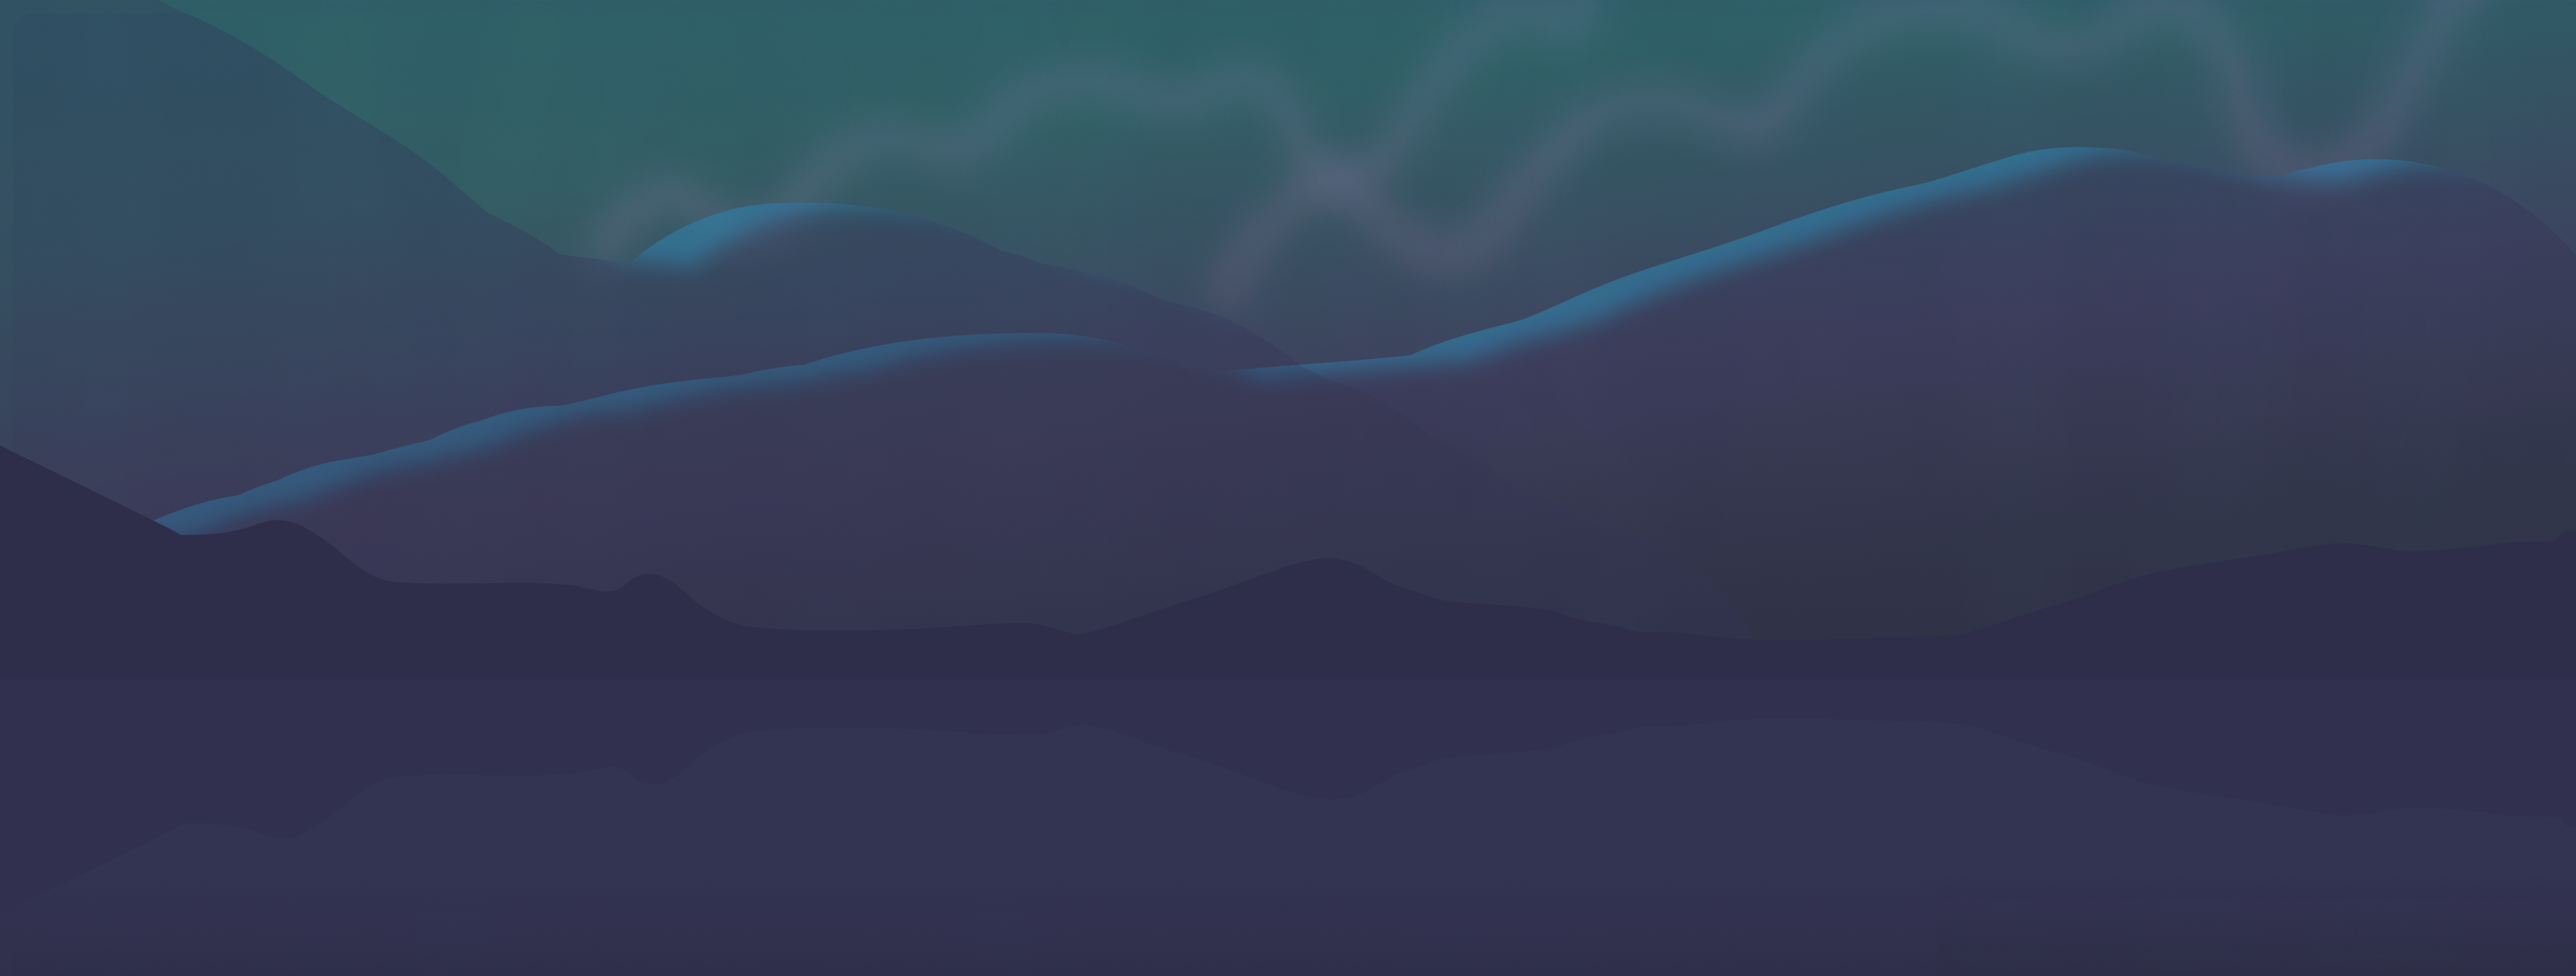
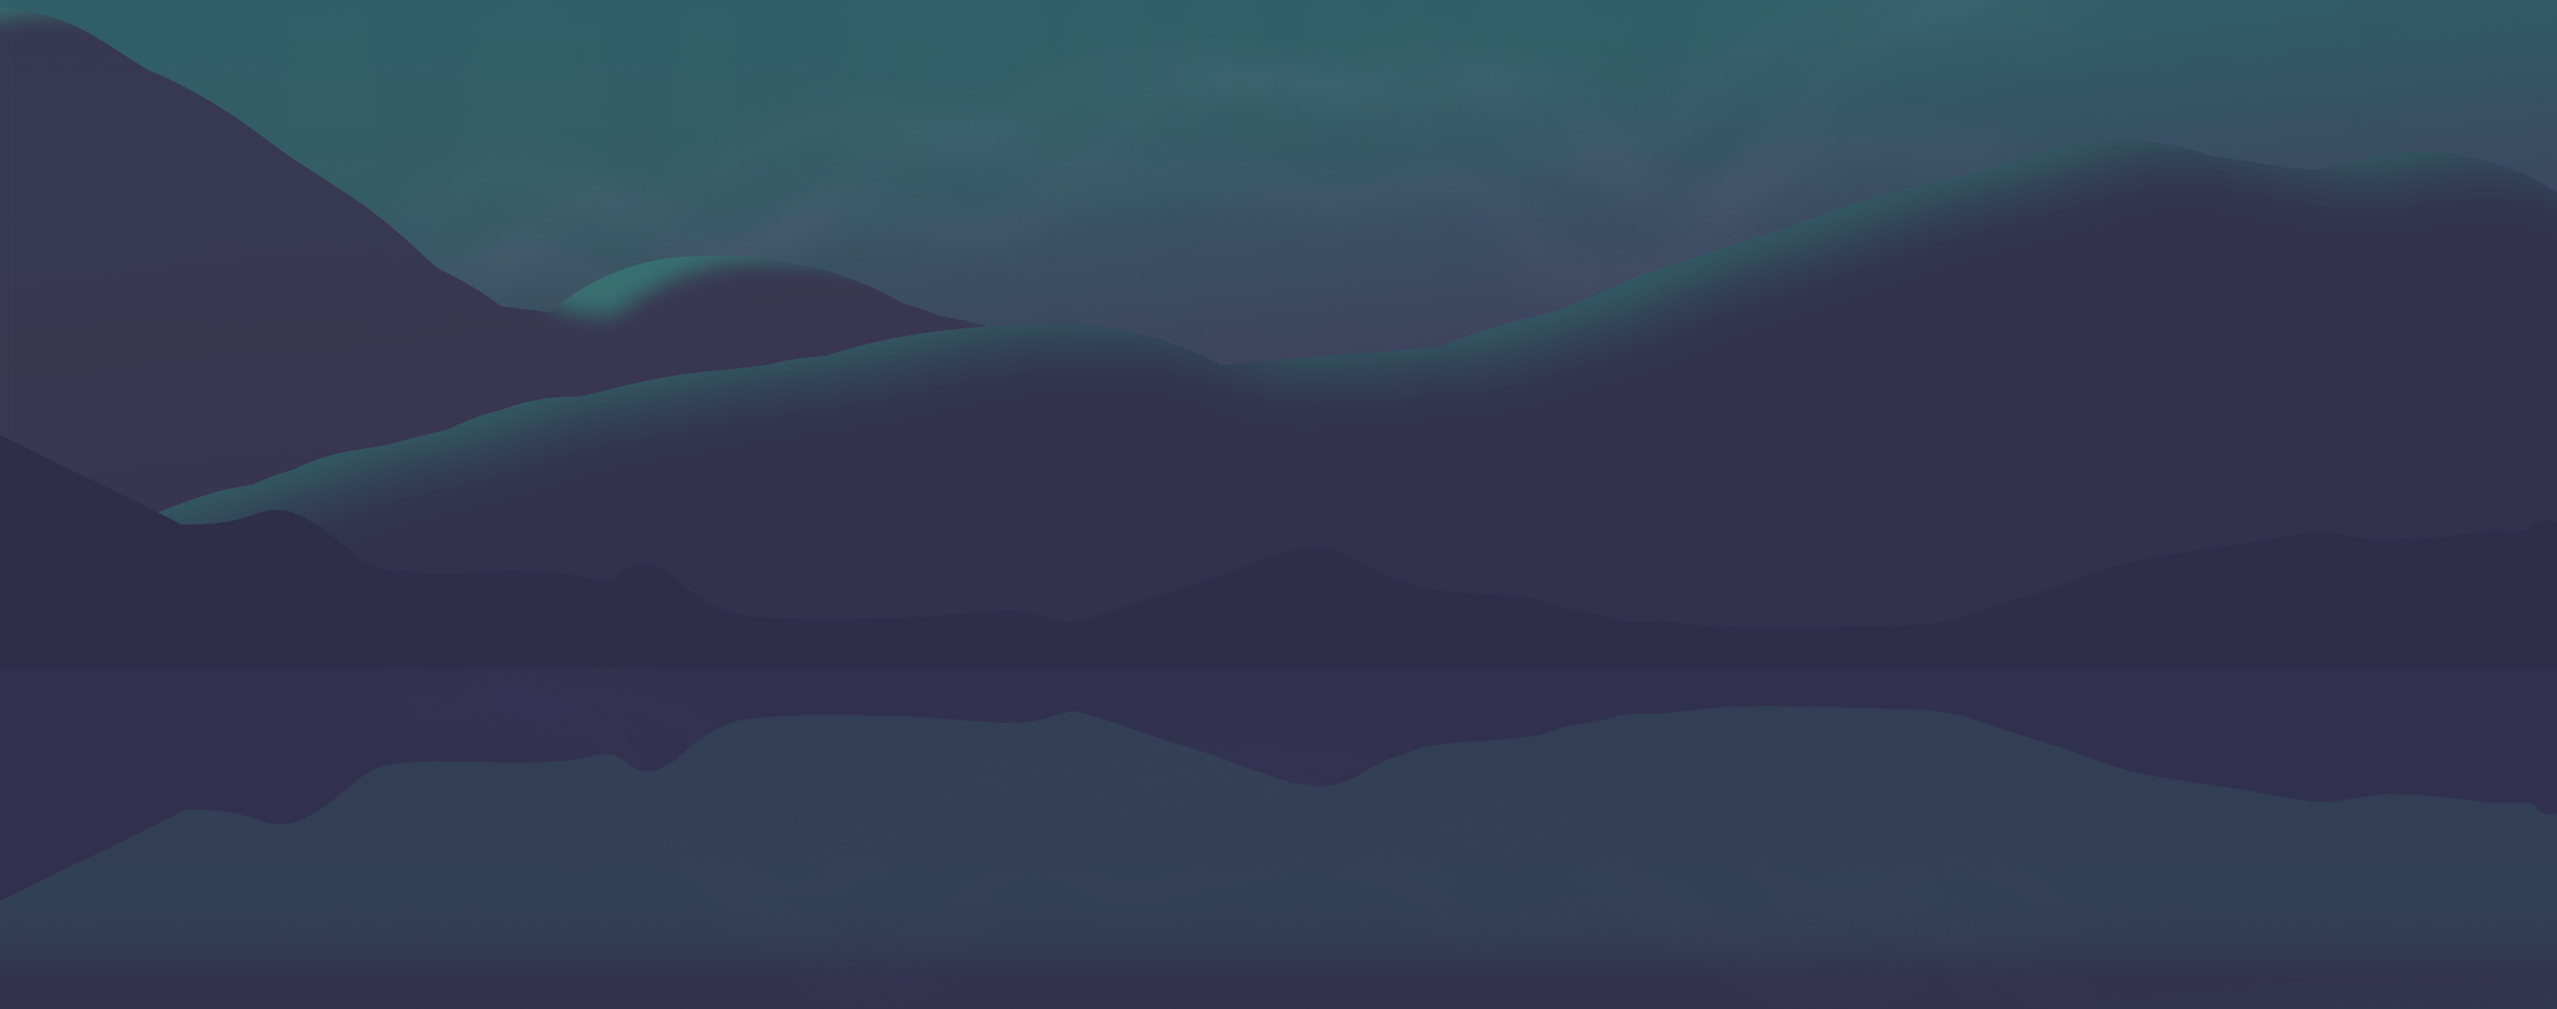
pic less terble

diff --git a/design_code_interact/cv_main.css b/design_code_interact/cv_main.css
@@ -37,6 +37,18 @@ body {
   background-size: 369.20%;
 }
 
+#holo_fun {
+  background-image: linear-gradient(
+    0.12turn,
+    #45666d,
+    /* #47476d, */
+    #333352,
+    /* #39294480, */
+    #45666D
+  );
+  background-size: 369.20%;
+}
+
 /* #holo_fun {
   height: 100vh;
   width: 100vw;
